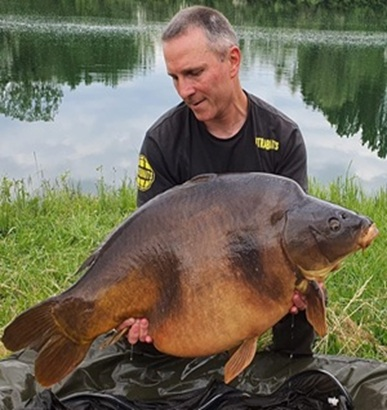
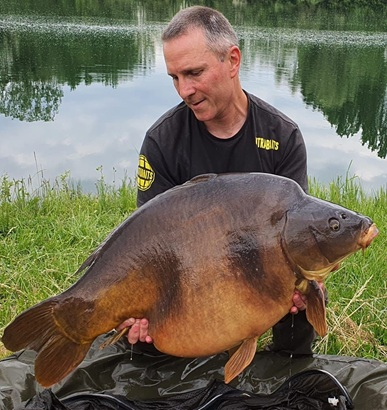
update 16:35 / 19.04.2026

diff --git a/legals.html b/legals.html
@@ -1,19 +1,19 @@
 <!doctype html>
-<html class="no-js" lang="en">
+<html class="no-js" lang="fr">
 
 <head>
     <meta charset="utf-8">
     <meta http-equiv="x-ua-compatible" content="ie=edge">
     <title>Authentic Fishing DC - Services</title>
     <meta name="author" content="David Coquillat">
-    <meta name="description" content="Explorez nos services de pêche : guide professionnel, conseil spots. Réservez votre expérience maintenant.">
-    <meta name="keywords" content="guide pêche, techniques pêche, conseil pêche, spots pêche France">
+    <meta name="description" content="">
+    <meta name="keywords" content="">
     <meta name="robots" content="INDEX,FOLLOW">
     
     <meta property="og:type" content="website">
-    <meta property="og:url" content="https://authentic-fishing.com/option-sejour.html">
-    <meta property="og:title" content="Nos Services de Pêche Professionnels">
-    <meta property="og:description" content="Guides avancés, formation et équipement pêche de qualité">
+    <meta property="og:url" content="https://authentic-fishing.com/legals.html">
+    <meta property="og:title" content="">
+    <meta property="og:description" content="">
     <meta property="og:image" content="https://authentic-fishing.com/assets/img/og-image-service.jpg">
 
     <meta name="viewport" content="width=device-width, initial-scale=1, shrink-to-fit=no">
@@ -62,14 +62,14 @@
                     </li>
                     <li><a href="a-propos.html">A Propos</a></li>
                     <li>
-                        <a href="option-sejour.html">Service</a>
+                        <a href="option-sejour.html">Services</a>
                     </li>
                    
-                    <li>
+                    <!--<li>
                         <a href="blog.html">Blog</a>
-                    </li>                                     
+                    </li>-->                                   
                     <li>
-                        <a href="contact-authentic-fishing-dc-autres-activites-liees-au-sport.html">Contact Us</a>
+                        <a href="contact-authentic-fishing-dc-autres-activites-liees-au-sport.html">Contact</a>
                     </li>
                 </ul>
             </div>
@@ -133,7 +133,7 @@
                                 <a href="https://maps.app.goo.gl/QREpATmEXTDDN7NN8" target="_blank"><i class="fas fa-map-marker-alt"></i> Chemin rural n° 18 de la Noue, 89340 Villeneuve-la-Guyard  </a>
                             </li>
                             <li>
-                                <a href="#contact"><i class="fas fa-envelope"></i> contact@authentic-fishing.com </a>
+                                <a href="#contact"><i class="fas fa-envelope"></i> coquillat.david@sfr.fr </a>
                             </li>
                         </ul>
                     </div>
@@ -173,9 +173,9 @@
                                                     <a href="option-sejour.html">Services</a>
                                                 </li>
                                                
-                                                <li>
+                                                <!--<li>
                                                     <a href="blog.html">Blog</a>
-                                                </li>                                             
+                                                </li>-->                                            
                                                 <li>
                                                     <a href="contact-authentic-fishing-dc-autres-activites-liees-au-sport.html">Contact</a>
                                                 </li>
@@ -452,7 +452,7 @@
                                 <a href="https://www.instagram.com/authenticfishingdc"><i class="fab fa-instagram"></i></a> 
                             </div>
                             <div class="contact-info">
-                                <a href="mailto:exemple@mail.com">  contact@authentic-fishing.com </a>
+                                <a href="mailto:coquillat.david@sfr.fr">  coquillat.david@sfr.fr </a>
                             </div>
                         </div>
                     </div>   

diff --git a/a-propos.html b/a-propos.html
@@ -1,5 +1,5 @@
 <!doctype html>
-<html class="no-js" lang="en">
+<html class="no-js" lang="fr">
 
 <head>
     <meta charset="utf-8">
@@ -134,7 +134,7 @@
                                 <a href="https://maps.app.goo.gl/QREpATmEXTDDN7NN8" target="_blank"><i class="fas fa-map-marker-alt"></i> Chemin rural n° 18 de la Noue, 89340 Villeneuve-la-Guyard  </a>
                             </li>
                             <li>
-                                <a href="#contact"><i class="fas fa-envelope"></i> contact@authentic-fishing.com </a>
+                                <a href="#contact"><i class="fas fa-envelope"></i> coquillat.david@sfr.fr </a>
                             </li>
                         </ul>
                     </div>
@@ -267,10 +267,10 @@
                 </div>
                 <div class="col-lg-6 col-xl-6">
                     <div class="img_box1 style2">
-                        <div class="img_1 mega-hover"><img src="assets/img/explore/davidpfp1.jpg" alt="about"></div>
-                        <div class="img_2 mega-hover"><img src="assets/img/explore/davidpfp2.jpg" alt="about"></div>
+                        <div class="img_1 mega-hover"><img src="assets/img/explore/davidpfp1.jpg" alt="img_1"></div>
+                        <div class="img_2 mega-hover"><img src="assets/img/explore/davidpfp2.jpg" alt="img_2"></div>
                         <div class="exp_box1">
-                            <h3 class="exp_box_title">25+ Years</h3>
+                            <h3 class="exp_box_title">30+ Years</h3>
                             <p class="exp_box_text">Of Experience</p>
                         </div>
                     </div>
@@ -512,7 +512,7 @@
                                 <h3 class="team_name h4">
                                     <a>David Coquillat</a>
                                 </h3>
-                                <p class="team_degi">Nutrabait FRANCE</p>
+                                <p class="team_degi">/</p>
                                 <a href="mailto:coquillat.david@sfr.fr" class="team_mail">
                                     <i class="fas fa-envelope"></i>coquillat.david@sfr.fr</a>
                             </div>
@@ -678,7 +678,7 @@
                                 <a href="https://www.instagram.com/authenticfishingdc"><i class="fab fa-instagram"></i></a> 
                             </div>
                             <div class="contact-info">
-                                <a href="mailto:exemple@mail.com">  contact@authentic-fishing.com </a>
+                                <a href="mailto:coquillat.david@sfr.fr">  coquillat.david@sfr.fr </a>
                             </div>
                         </div>
                     </div>   

diff --git a/authentic-lake/index.html b/authentic-lake/index.html
@@ -1,5 +1,5 @@
 <!doctype html>
-<html class="no-js" lang="en">
+<html class="no-js" lang="fr">
 
 <head>
     <meta charset="utf-8">
@@ -179,7 +179,7 @@
                                 <a href="https://maps.app.goo.gl/QREpATmEXTDDN7NN8" target="_blank"><i class="fas fa-map-marker-alt"></i> Chemin rural n° 18 de la Noue, 89340 Villeneuve-la-Guyard  </a>
                             </li>
                             <li>
-                                <a href="#contact"><i class="fas fa-envelope"></i> contact@authentic-fishing.com </a>
+                                <a href="#contact"><i class="fas fa-envelope"></i> coquillat.david@sfr.fr </a>
                             </li>
                         </ul>
                     </div>
@@ -1000,7 +1000,7 @@
                                 <a href="https://www.instagram.com/authenticfishingdc"><i class="fab fa-instagram"></i></a> 
                             </div>
                             <div class="contact-info">
-                                <a href="mailto:exemple@mail.com">  contact@authentic-fishing.com </a>
+                                <a href="mailto:coquillat.david@sfr.fr">  coquillat.david@sfr.fr </a>
                             </div>
                         </div>
                     </div>   

diff --git a/contact-authentic-fishing-dc-autres-activites-liees-au-sport.html b/contact-authentic-fishing-dc-autres-activites-liees-au-sport.html
@@ -1,5 +1,5 @@
 <!doctype html>
-<html class="no-js" lang="en">
+<html class="no-js" lang="fr">
 
 <head>
     <meta charset="utf-8">
@@ -134,7 +134,7 @@
                                 <a href="https://maps.app.goo.gl/QREpATmEXTDDN7NN8" target="_blank"><i class="fas fa-map-marker-alt"></i> Chemin rural n° 18 de la Noue, 89340 Villeneuve-la-Guyard  </a>
                             </li>
                             <li>
-                                <a href="#contact"><i class="fas fa-envelope"></i> contact@authentic-fishing.com </a>
+                                <a href="#contact"><i class="fas fa-envelope"></i> coquillat.david@sfr.fr </a>
                             </li>
                         </ul>
                     </div>
@@ -438,7 +438,7 @@
                                 <a href="https://www.instagram.com/authenticfishingdc"><i class="fab fa-instagram"></i></a> 
                             </div>
                             <div class="contact-info">
-                                <a href="mailto:exemple@mail.com">  contact@authentic-fishing.com </a>
+                                <a href="mailto:coquillat.david@sfr.fr">  coquillat.david@sfr.fr </a>
                             </div>
                         </div>
                     </div>   

diff --git a/option-sejour.html b/option-sejour.html
@@ -1,5 +1,5 @@
 <!doctype html>
-<html class="no-js" lang="en">
+<html class="no-js" lang="fr">
 
 <head>
     <meta charset="utf-8">
@@ -134,7 +134,7 @@
                                 <a href="https://maps.app.goo.gl/QREpATmEXTDDN7NN8" target="_blank"><i class="fas fa-map-marker-alt"></i> Chemin rural n° 18 de la Noue, 89340 Villeneuve-la-Guyard  </a>
                             </li>
                             <li>
-                                <a href="#contact"><i class="fas fa-envelope"></i> contact@authentic-fishing.com </a>
+                                <a href="#contact"><i class="fas fa-envelope"></i> coquillat.david@sfr.fr </a>
                             </li>
                         </ul>
                     </div>
@@ -625,7 +625,7 @@
                                 <a href="https://www.instagram.com/authenticfishingdc"><i class="fab fa-instagram"></i></a> 
                             </div>
                             <div class="contact-info">
-                                <a href="mailto:exemple@mail.com">  contact@authentic-fishing.com </a>
+                                <a href="mailto:coquillat.david@sfr.fr">  coquillat.david@sfr.fr </a>
                             </div>
                         </div>
                     </div>   

diff --git a/blog.html b/blog.html
@@ -164,7 +164,7 @@
                                 <a href="#"><i class="fas fa-map-marker-alt"></i> 360 Rue Monge Paris 75005, France  </a>
                             </li>
                             <li>
-                                <a href="#"><i class="fas fa-envelope"></i> exemple@mail.com </a>
+                                <a href="mailto:coquillat.david@sfr.fr"><i class="fas fa-envelope"></i> coquillat.david@sfr.fr </a>
                             </li>
                         </ul>
                     </div>
@@ -519,7 +519,7 @@
                                 <a href="https://www.instagram.com/authenticfishingdc"><i class="fab fa-instagram"></i></a> 
                             </div>
                             <div class="contact-info">
-                                <a href="mailto:exemple@mail.com">  contact@authentic-fishing.com </a>
+                                <a href="mailto:coquillat.david@sfr.fr">  coquillat.david@sfr.fr </a>
                             </div>
                         </div>
                     </div>   
